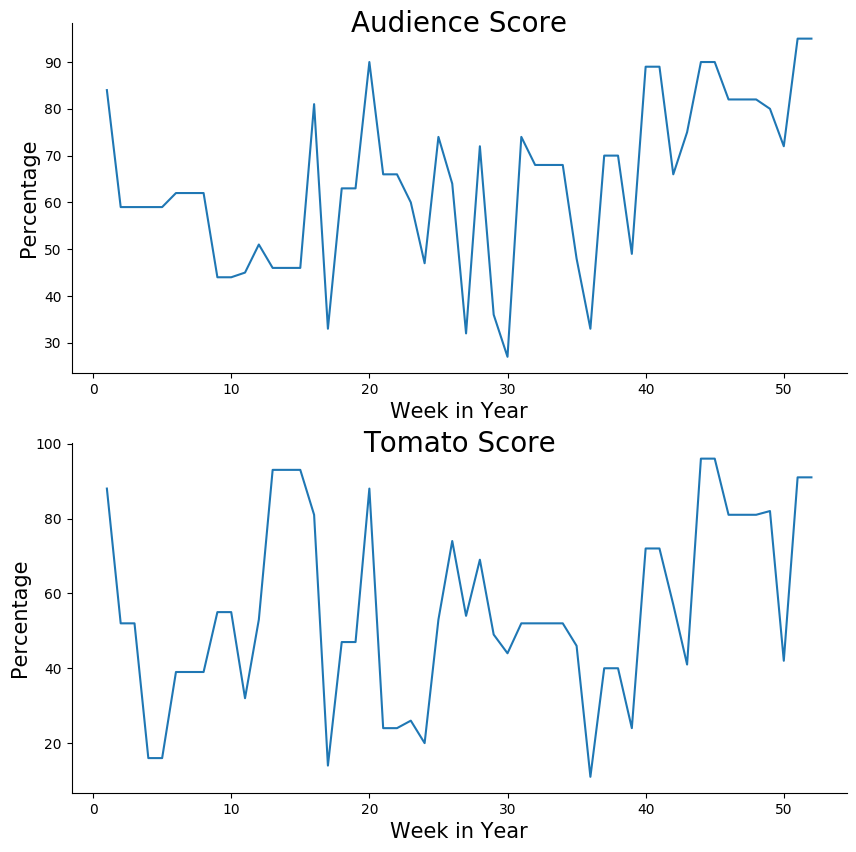
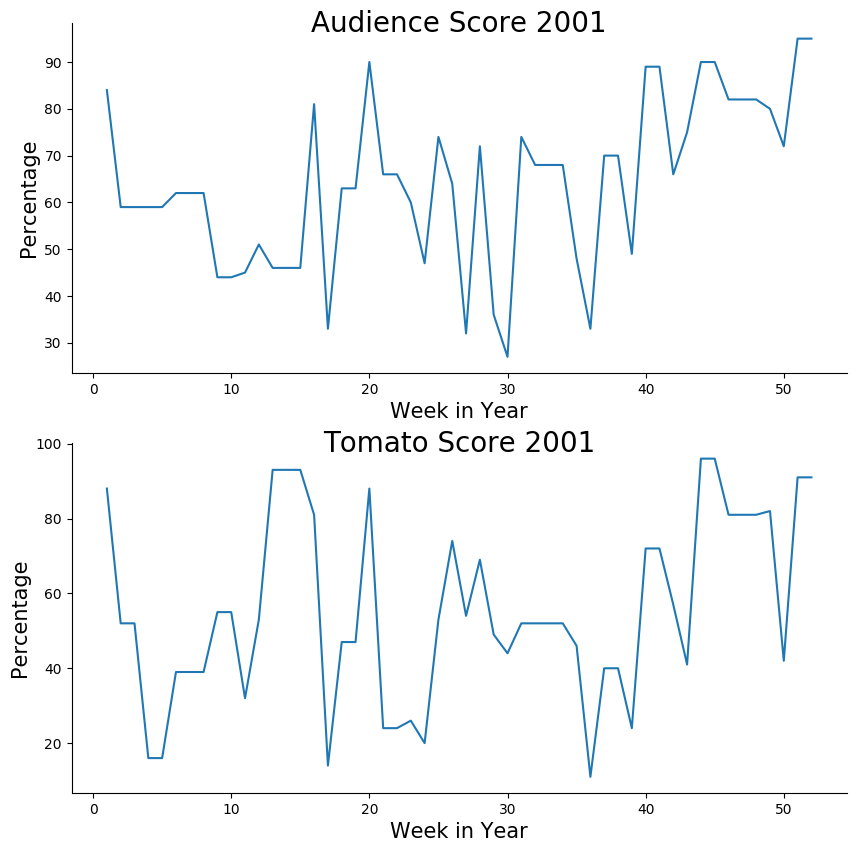
Fixed Graphs.

Changed region(s): [[0.3645, 0.0, 0.6986, 0.061], [0.3645, 0.4883, 0.6986, 0.5493]]

diff --git a/rt_scraper.py b/rt_scraper.py
@@ -213,8 +213,8 @@ def plot_aud_and_tomato_scores(year=2000):
     fig, (a0, a1) = plt.subplots(2, 1, figsize=stacked_fig_size)
     a0.plot(df["week"], df["aud_score"])
     a1.plot(df["week"], df["tomato_score"])
-    a0.set_title("Audience Score", fontsize=20, y=0.95)
-    a1.set_title("Tomato Score", fontsize=20, y=0.95)
+    a0.set_title("Audience Score {}".format(year), fontsize=20, y=0.95)
+    a1.set_title("Tomato Score {}".format(year), fontsize=20, y=0.95)
 
     for ax in [a0, a1]:
         ax.spines['right'].set_visible(False)
@@ -688,13 +688,13 @@ def average_aud_score_all():
     plt.savefig("graphs/aud_score_all.png", bbox_inches="tight")
     plt.close()
 
-# [plot_aud_and_tomato_scores(year) for year in range(2000,2020)]
-# [plot_diff_in_scores_year(year) for year in range(2000,2020)]
-# [plot_top10_gross_year(year) for year in range(2000,2020)]
-# plot_diff_in_decades()
-# plot_average_score_diff()
-# plot_top10_gross_in_decades()
-# plot_average_top10_gross()
-# plot_top10_gross_all()
-# average_tomato_score_all()
+[plot_aud_and_tomato_scores(year) for year in range(2000,2020)]
+[plot_diff_in_scores_year(year) for year in range(2000,2020)]
+[plot_top10_gross_year(year) for year in range(2000,2020)]
+plot_diff_in_decades()
+plot_average_score_diff()
+plot_top10_gross_in_decades()
+plot_average_top10_gross()
+plot_top10_gross_all()
+average_tomato_score_all()
 average_aud_score_all()
